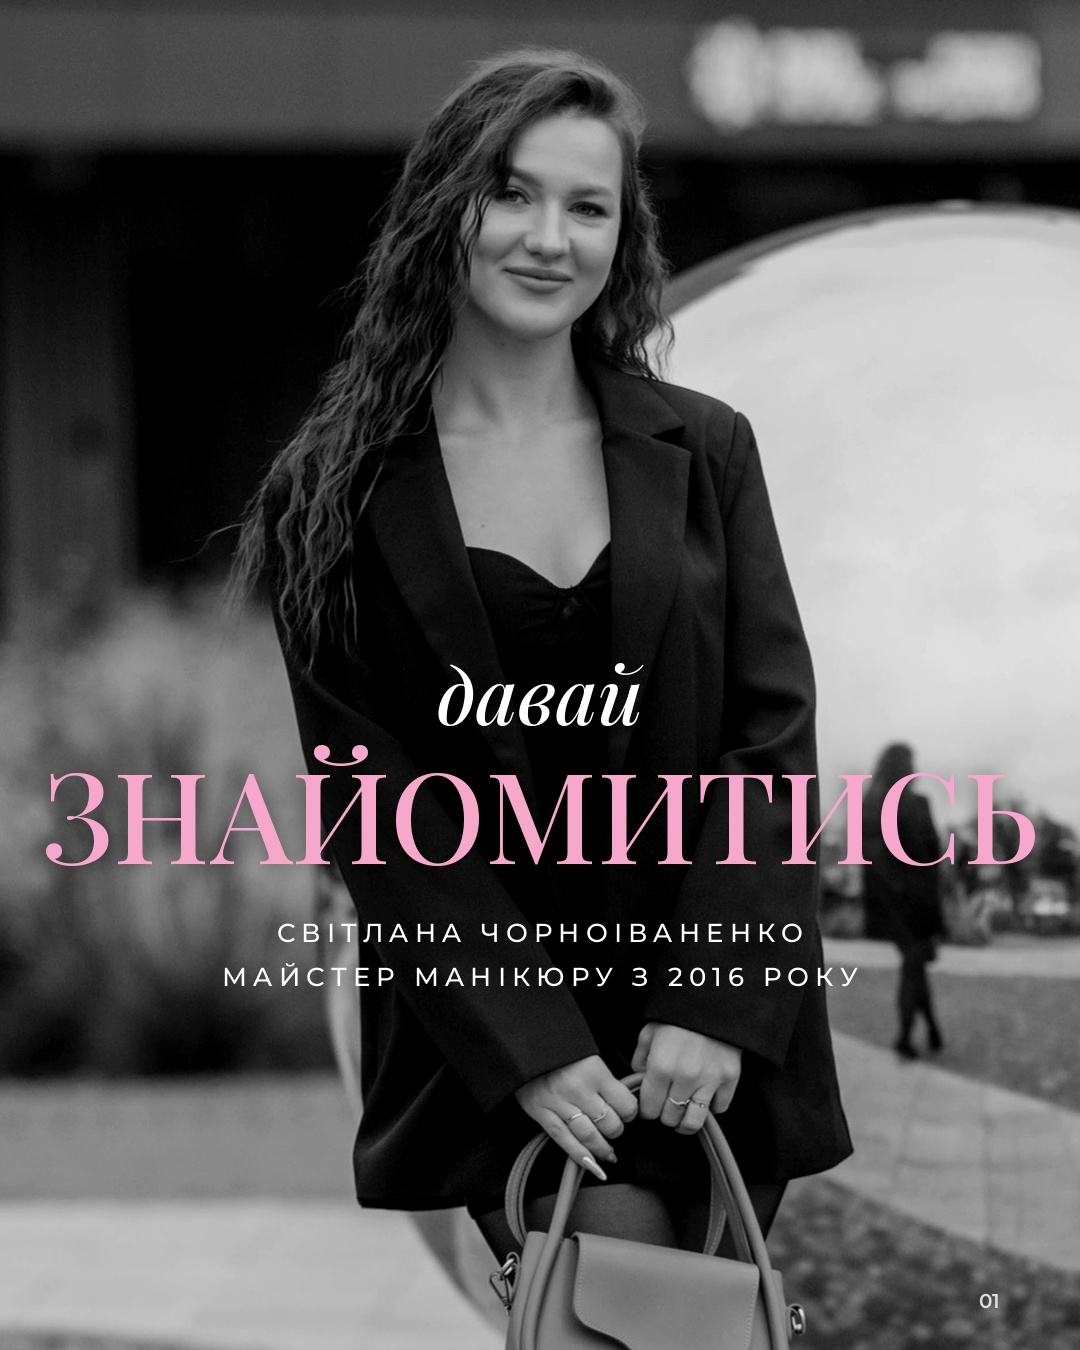
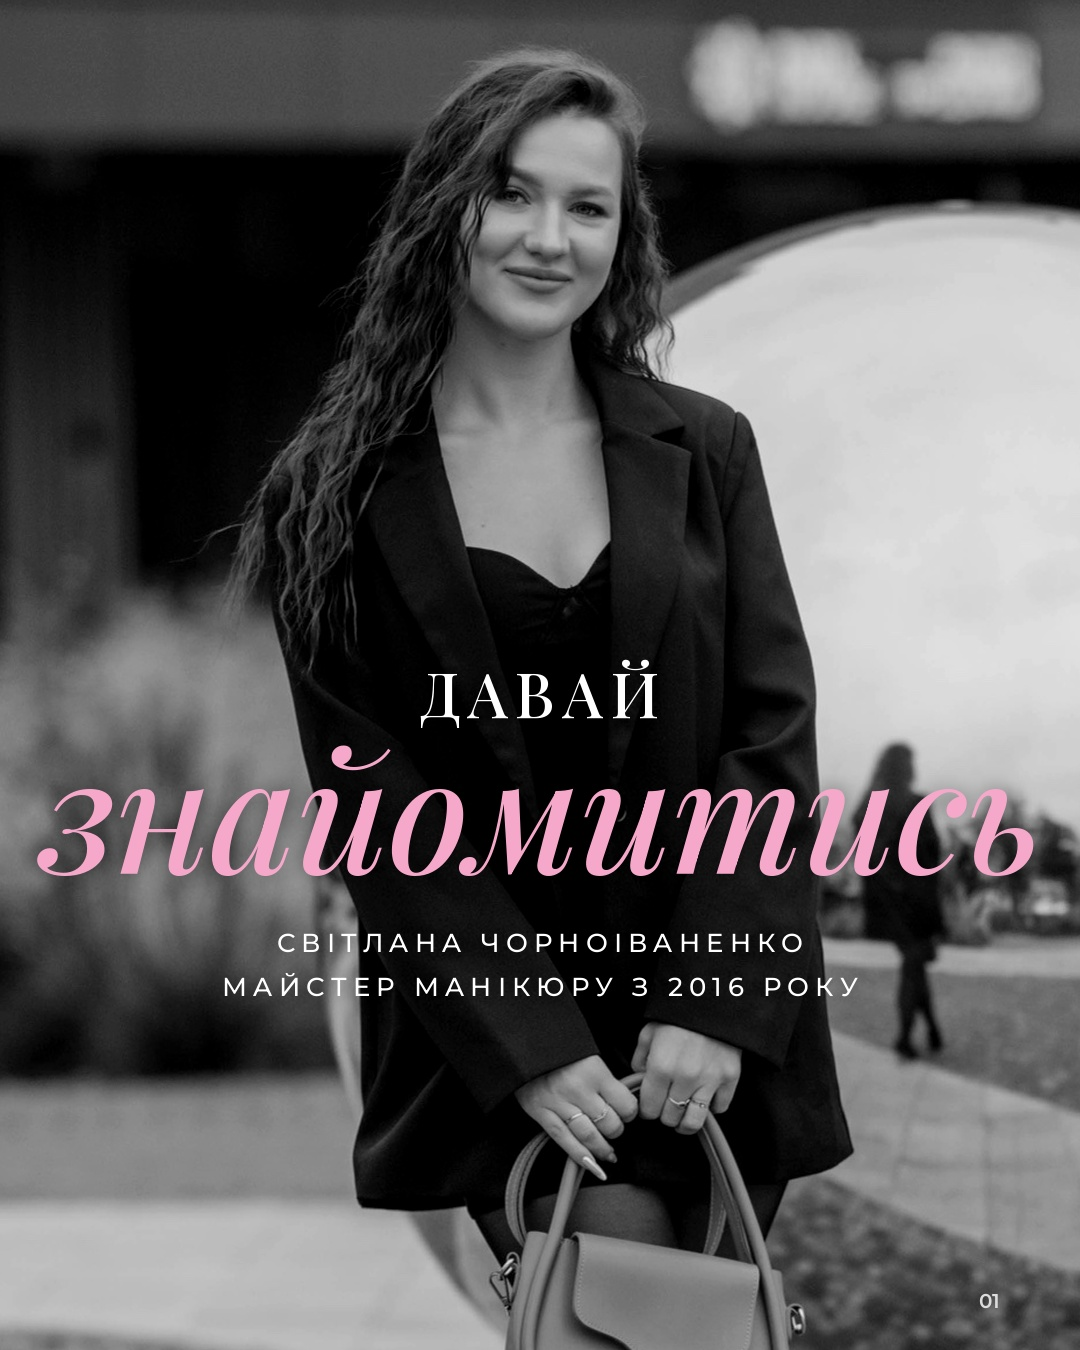
Intro cover: italic 'знайомитись', upright 'ДАВАЙ'
Claude-Session: https://claude.ai/code/session_0191xVL2hi5vHUvM1ix6pauC

Changed region(s): [[0.0306, 0.4978, 0.9778, 0.6533], [0.2139, 0.6844, 0.7944, 0.7467]]

diff --git a/karusel_znaiomstvo/cover_bw.py b/karusel_znaiomstvo/cover_bw.py
@@ -12,13 +12,13 @@ def center(t,f,y,fill,sp=0):
     tw=sum(d.textlength(c,font=f) for c in t)+sp*(len(t)-1); x=(W-tw)/2
     for c in t: d.text((x,y),c,font=f,fill=fill); x+=d.textlength(c,font=f)+sp
 y=640
-center('давай',F('PlayfairDisplay-Italic%5Bwght%5D.ttf',78,500),y,WHITE)
-sz=220
+center('ДАВАЙ',F('PlayfairDisplay-wght.ttf',62,500),y+10,WHITE,8)
+sz=260
 while True:
-    big=F('PlayfairDisplay-wght.ttf',sz,500); bb=d.textbbox((0,0),'ЗНАЙОМИТИСЬ',font=big)
+    big=F('PlayfairDisplay-Italic%5Bwght%5D.ttf',sz,500); bb=d.textbbox((0,0),'знайомитись',font=big)
     if bb[2]-bb[0]<=W-70: break
     sz-=2
-yb=y+105; d.text(((W-(bb[2]-bb[0]))/2-bb[0],yb-bb[1]),'ЗНАЙОМИТИСЬ',font=big,fill=LPINK)
+yb=y+105; d.text(((W-(bb[2]-bb[0]))/2-bb[0],yb-bb[1]),'знайомитись',font=big,fill=LPINK)
 ys=yb+(bb[3]-bb[1])+50
 sf=F('Montserrat%5Bwght%5D.ttf',26,500)
 center('СВІТЛАНА ЧОРНОІВАНЕНКО',sf,ys,WHITE,6)

diff --git a/karusel_znaiomstvo/cover_col.py b/karusel_znaiomstvo/cover_col.py
@@ -12,13 +12,13 @@ def center(t,f,y,fill,sp=0):
     tw=sum(d.textlength(c,font=f) for c in t)+sp*(len(t)-1); x=(W-tw)/2
     for c in t: d.text((x,y),c,font=f,fill=fill); x+=d.textlength(c,font=f)+sp
 y=640
-center('давай',F('PlayfairDisplay-Italic%5Bwght%5D.ttf',78,500),y,WHITE)
-sz=220
+center('ДАВАЙ',F('PlayfairDisplay-wght.ttf',62,500),y+10,WHITE,8)
+sz=260
 while True:
-    big=F('PlayfairDisplay-wght.ttf',sz,500); bb=d.textbbox((0,0),'ЗНАЙОМИТИСЬ',font=big)
+    big=F('PlayfairDisplay-Italic%5Bwght%5D.ttf',sz,500); bb=d.textbbox((0,0),'знайомитись',font=big)
     if bb[2]-bb[0]<=W-70: break
     sz-=2
-yb=y+105; d.text(((W-(bb[2]-bb[0]))/2-bb[0],yb-bb[1]),'ЗНАЙОМИТИСЬ',font=big,fill=LPINK)
+yb=y+105; d.text(((W-(bb[2]-bb[0]))/2-bb[0],yb-bb[1]),'знайомитись',font=big,fill=LPINK)
 ys=yb+(bb[3]-bb[1])+50
 sf=F('Montserrat%5Bwght%5D.ttf',26,500)
 center('СВІТЛАНА ЧОРНОІВАНЕНКО',sf,ys,WHITE,6)
